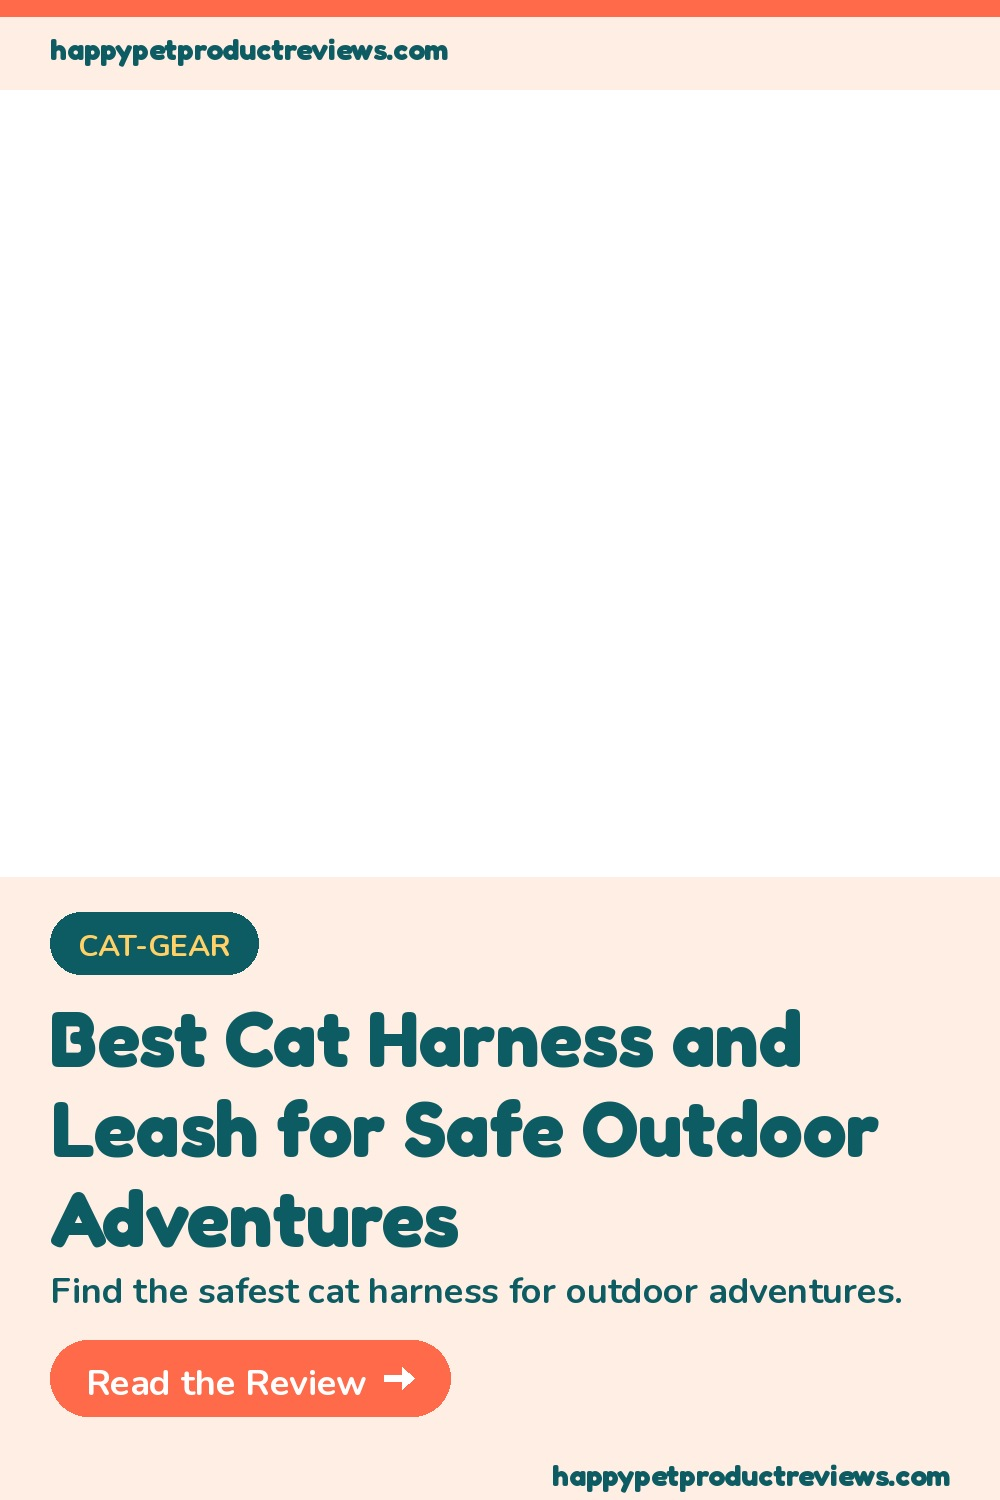
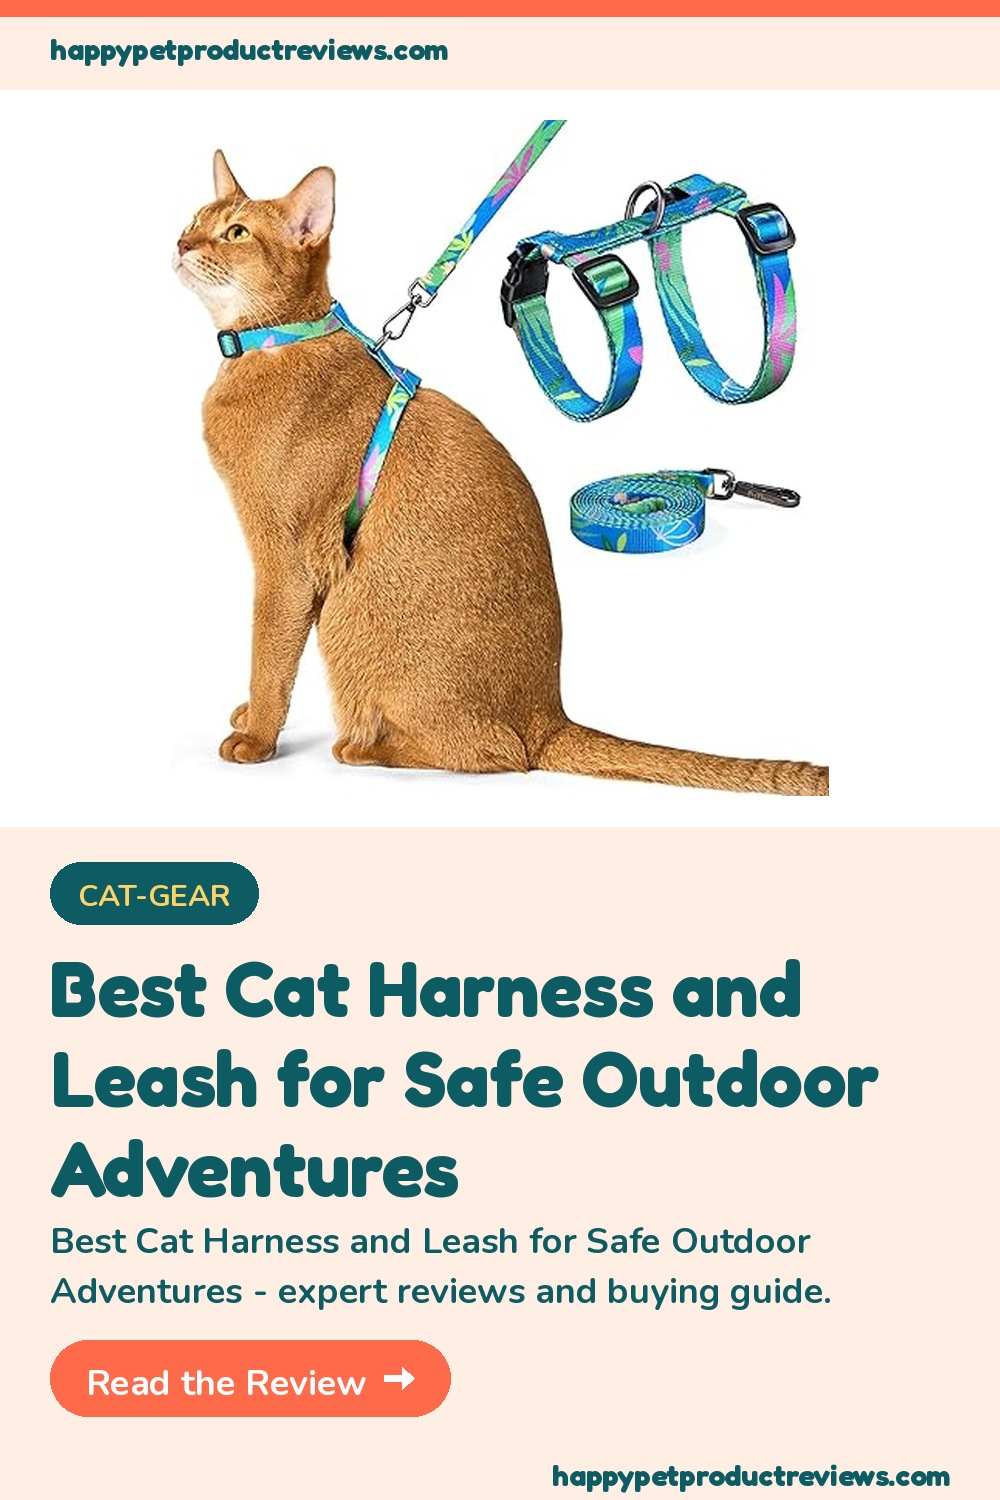
fix: product image on pin card -- fallback fetch + regenerated cat harness pin

Changed region(s): [[0.0, 0.0613, 1.0, 0.8893]]

diff --git a/generate_pin_images.py b/generate_pin_images.py
@@ -73,14 +73,33 @@ def get_font(name, size):
     return ImageFont.load_default()
 
 def fetch_image(url):
-    try:
-        req = urllib.request.Request(url, headers={'User-Agent':'Mozilla/5.0'})
-        with urllib.request.urlopen(req, timeout=10) as r:
-            data = r.read()
-        return Image.open(BytesIO(data)).convert('RGBA')
-    except Exception as e:
-        log_pin(f'image fetch failed: {e}', 'WARN')
-        return None
+    import re as _re
+    def _try(u):
+        try:
+            req = urllib.request.Request(u, headers={'User-Agent': 'Mozilla/5.0'})
+            with urllib.request.urlopen(req, timeout=15) as r:
+                data = r.read()
+            if len(data) < 500:  # placeholder/redirect -- not a real image
+                return None
+            return Image.open(BytesIO(data)).convert('RGBA')
+        except Exception:
+            return None
+
+    img = _try(url)
+    if img:
+        return img
+
+    # Fallback: extract image ID from m.media-amazon URLs and try alternate size suffixes
+    for suffix in ['._AC_SL1500_.jpg', '._AC_SX522_.jpg', '.jpg']:
+        m = _re.search(r'/images/I/([A-Za-z0-9%+_-]+)[\._]', url)
+        if m:
+            alt = f'https://m.media-amazon.com/images/I/{m.group(1)}{suffix}'
+            img = _try(alt)
+            if img:
+                return img
+
+    log_pin(f'image fetch failed for {url[:80]} -- pin will render without product photo', 'WARN')
+    return None
 
 def autocrop_whitespace(img, threshold=240):
     diff = ImageOps.invert(img.convert('RGB'))

diff --git a/generate_posts.py b/generate_posts.py
@@ -1091,7 +1091,12 @@ def main() -> None:
                 log(f"  SAVED {fname} ({fpath.stat().st_size} bytes) -- total: {time.monotonic()-_t0:.1f}s")
 
                 article_url = build_url(slug, utm=True)
+                asin        = product.get("asin", "")
                 pin_url     = product.get("image", "")
+                # Prefer canonical Amazon CDN format -- direct m.media-amazon.com URLs
+                # are blocked by GHA runner IPs; images-na CDN is consistently accessible
+                if asin:
+                    pin_url = f"https://images-na.ssl-images-amazon.com/images/P/{asin}.01.LZZZZZZZ.jpg"
                 if PIN_GEN_AVAILABLE:
                     try:
                         pin_url = make_pin_for_post(title, pin_desc, pin_url, category, slug, generated)